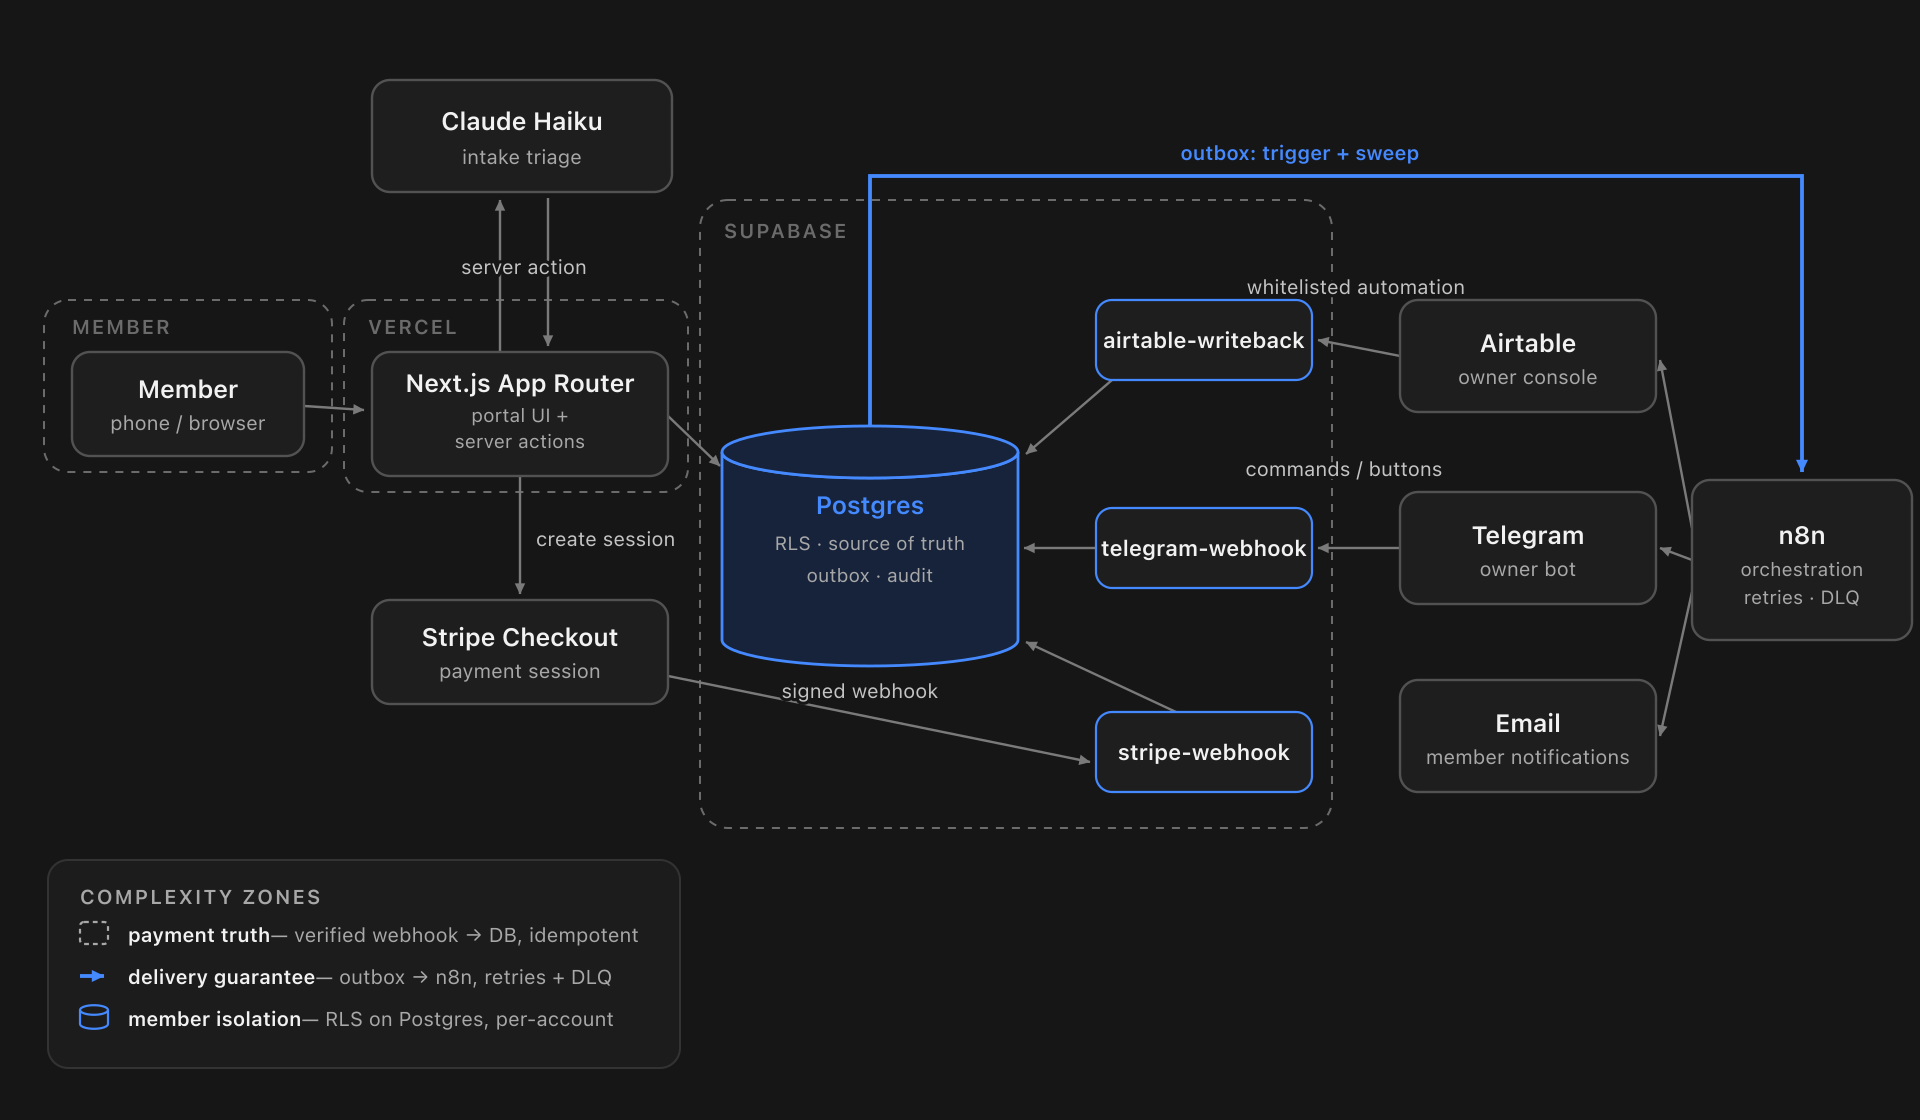
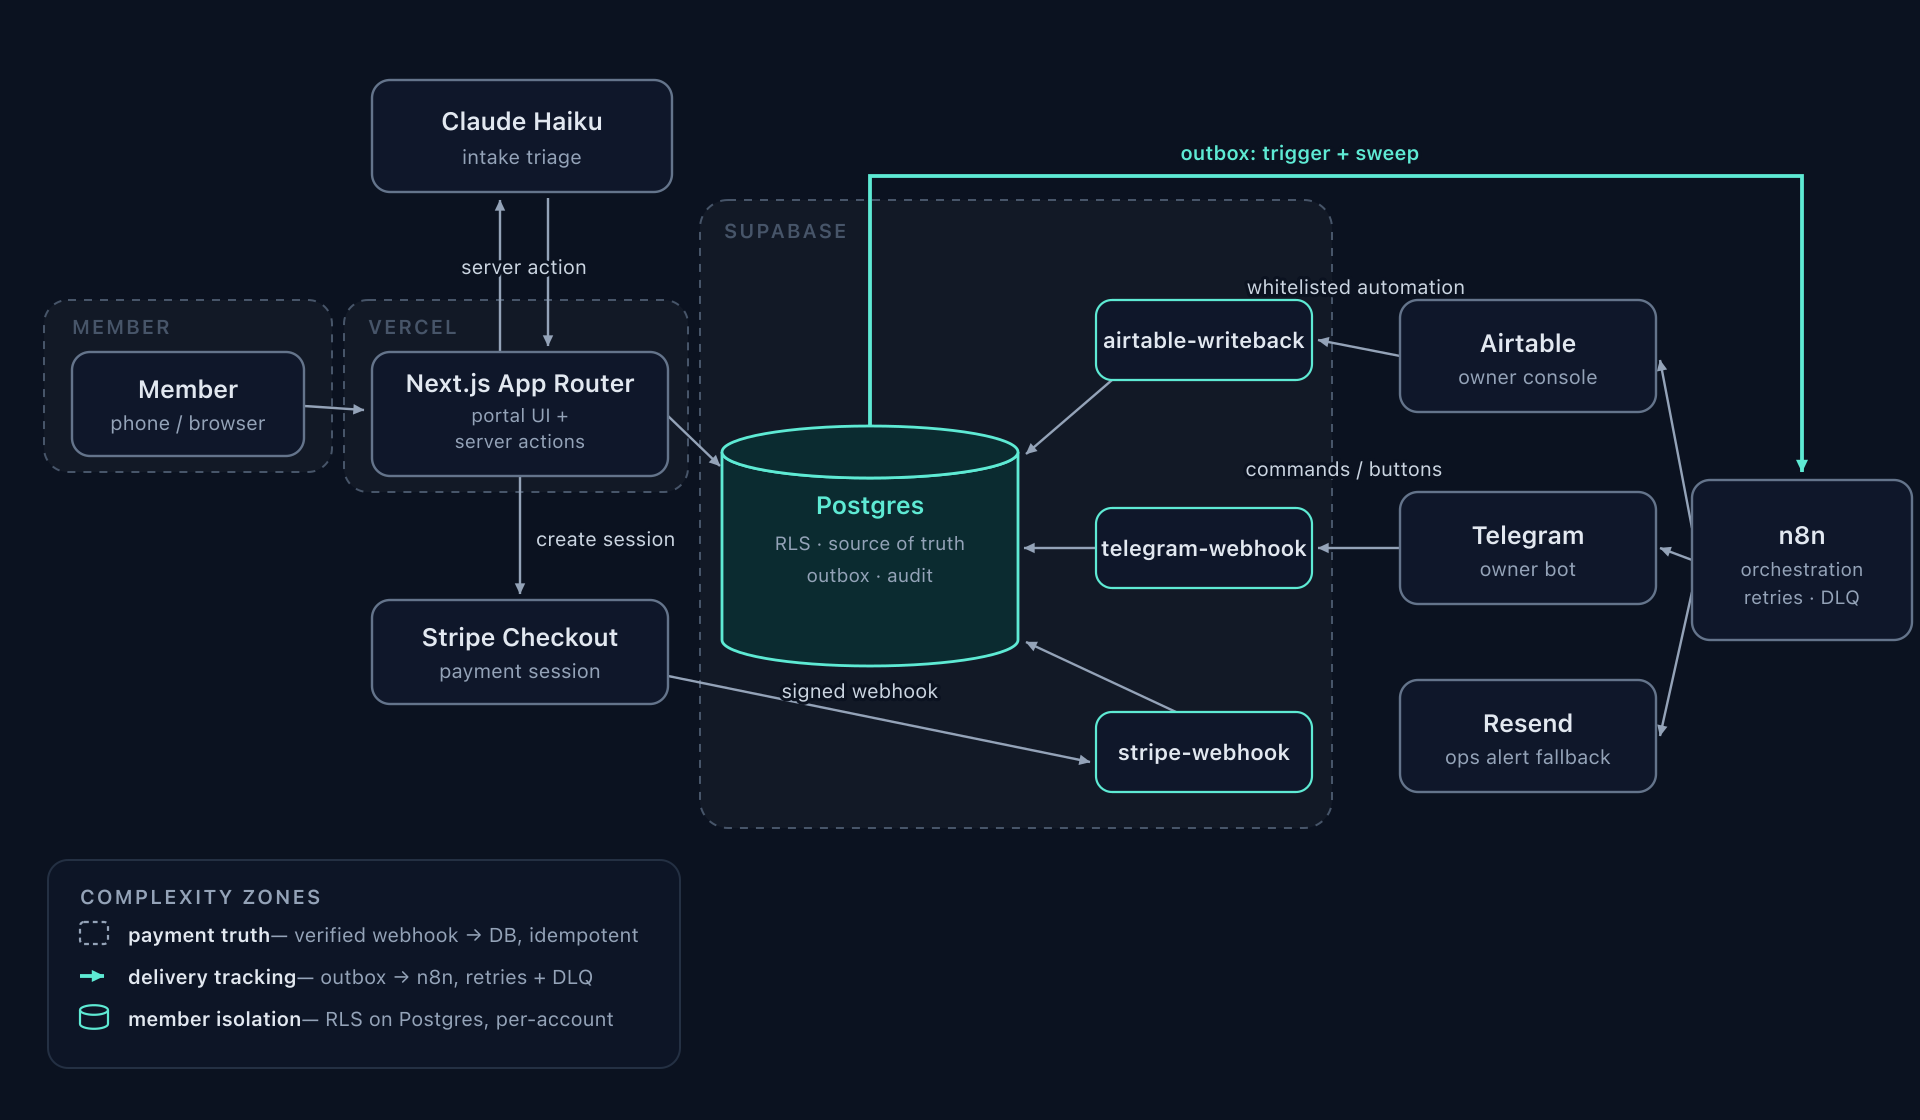
fix(content): match Cabana case study to deployed app

diff --git a/src/content/work.ts b/src/content/work.ts
@@ -156,7 +156,7 @@ export const projects: Project[] = [
     title: "Cabana",
     category: "Ops Automation + AI",
     summary:
-      "A demo portal for a fictional pool-service company. Customers report problems, track repairs, and pay test deposits. AI classifies requests and drafts responses; staff control pricing and scheduling.",
+      "A demo portal for a fictional pool-service company. Customers report problems, track repairs, and pay test deposits. AI classifies requests and drafts acknowledgments for staff; staff control pricing and scheduling.",
     href: "/work/cabana",
     slug: "cabana",
     liveHref: "https://cabana-kristenmartinos-projects.vercel.app",
@@ -168,126 +168,13 @@ export const projects: Project[] = [
     shape: "pipeline",
     image: "/work/cabana-architecture-dark.png",
     imageAlt:
-      "Cabana system architecture — a member browser to Next.js, Supabase Postgres as the source of truth with three edge functions, and n8n fanning out to Airtable, Telegram, and email through a transactional outbox.",
+      "Cabana system architecture — a member browser to Next.js, Supabase Postgres as the source of truth with three edge functions, and n8n fanning out to Airtable and Telegram through a transactional outbox, with Resend for operational alert fallback.",
     metrics: [
       "8 services · transactional outbox",
       "Webhook-authoritative payments · RLS",
-      "Chaos-tested: 0 lost / 0 duplicated · 50 bookings",
+      "Test run: 50/50 Airtable records · no duplicates",
       "Next.js 15 · Supabase · Claude Haiku · n8n",
     ],
-    artifact: {
-      problem: {
-        situation:
-          "Sailfish Pool Care — a fictional three-tech residential pool company — runs like many real ones: repair requests arrive as free text across call, text, and Messenger; the owner approves work from his truck; the office lives in a spreadsheet. Requests get lost, customer data is retyped into four places, and deposits go uncollected because asking is awkward.",
-        complication:
-          "The obvious build drops data in the places that matter most. Fire-and-forget notifications vanish when a downstream service blinks; trusting Stripe's success redirect double-books on replay; two-way sync between the app and Airtable drifts; and an AI that can promise a price or a time turns a confident misread into a commitment the company has to honor.",
-        question:
-          "Can a solo build hold an SMB ops system to a distributed-systems correctness bar — every integration with a named failure, detection, and handling path — without over-building past what three techs actually need?",
-      },
-      requirements: [
-        {
-          stakeholder: "Member",
-          need: "Describe a problem in plain words and get a real acknowledgment in seconds — no form shaped like the company's database, and no promise the business can't keep.",
-          evidence: "Free-text intake to Haiku triage; drafts only, never commits a price or time",
-        },
-        {
-          stakeholder: "Dana (owner)",
-          need: "Approve or decline work in one tap from the field, with an audit trail of who acted and how.",
-          evidence: "Telegram inline Approve · idempotent · one booking_transitions row per decision",
-        },
-        {
-          stakeholder: "Marie (office)",
-          need: "Run the week from a familiar console she can actually edit — without it becoming a second source of truth.",
-          evidence: "Airtable projection + two-field whitelisted write-back through a guarded edge function",
-        },
-        {
-          stakeholder: "The system itself",
-          need: "No status change, payment, or notification may ever be silently lost, and every failure must be detectable.",
-          evidence: "Transactional outbox + stripe_events ledger + RLS · a failure-modes table with a Detection column per integration",
-        },
-      ],
-      decisions: {
-        criteria: [
-          "No side effect silently lost",
-          "Recovers after downtime",
-          "Operator-inspectable",
-          "Build effort",
-        ],
-        options: [
-          {
-            option: "Call Airtable / Telegram / email inline from app code",
-            scores: ["unmet", "unmet", "unmet", "met"],
-          },
-          {
-            option: "Fire-and-forget: DB triggers call n8n directly",
-            scores: ["unmet", "unmet", "partial", "met"],
-          },
-          {
-            option: "Transactional outbox committed with the state change, consumed by n8n",
-            chosen: true,
-            scores: ["met", "met", "met", "partial"],
-            rationale:
-              "The event commits in the same transaction as the status change, so it exists if and only if the state change did — the failure the requirement names (a notification that silently vanishes when a downstream service blinks) becomes unrepresentable. n8n consumes at-least-once with a dedupe key, retries to a dead-letter queue, alerts, and a nightly reconciliation backstops it; a webhook nudge handles latency while a 60-second sweep handles the guarantee, so no single channel is asked to do both. Fire-and-forget triggers are the amateur default — if n8n is down at that instant, the event is gone — and inline calls also couple the member's request latency to three third-party APIs. The cost is a consumer and a queue to operate; n8n on Railway keeps that inspectable by a non-engineer.",
-          },
-        ],
-      },
-      solution: {
-        summary:
-          "A Supabase-Postgres core as the single source of truth, fronted by a Next.js member portal and three inbound webhook edge functions, with every outbound side effect delivered through a transactional outbox and n8n — retries, dead-lettering, alerting, nightly reconciliation. Claude Haiku triages intake as a bounded subsystem that can draft but never commit.",
-        pillars: [
-          {
-            title: "AI that drafts, never commits",
-            detail:
-              "Haiku classifies free-text intake against a zod schema and drafts an acknowledgment. No code path lets model output set a price, a time, or a status past awaiting_deposit / needs_review; timeout or bad output routes to a human, and the member flow can never throw on a model failure. The golden set enforces 100% prompt-injection containment in CI, deterministically at temperature 0.",
-          },
-          {
-            title: "Payment truth is the webhook",
-            detail:
-              "Hosted Stripe Checkout; payment state changes only from signature-verified events, recorded in a stripe_events idempotency ledger tolerant of replay and out-of-order delivery. The success redirect is cosmetic — the page polls until the database says paid, so a member who pays and closes the tab still lands on Scheduled.",
-          },
-          {
-            title: "The transactional outbox",
-            detail:
-              "Every status change commits its side-effect event in the same transaction; n8n consumes at-least-once with a dedupe key, retries to a dead-letter queue, alerts, and reconciles nightly. Orchestration lives where a non-engineer operator can open it and see the flow.",
-          },
-          {
-            title: "Isolation and audit in the database",
-            detail:
-              "RLS is the security boundary — enforced in Postgres, not UI filters, and probed by an adversarial test suite (cross-member reads through join paths; browsers get 42501 on writes). Every status write goes through one RPC so the actor and the write share a transaction, and the audit records who acted via which channel.",
-          },
-        ],
-      },
-      outcome: {
-        kind: "metrics",
-        items: [
-          {
-            metric: "Delivery under chaos",
-            after: "0 lost / 0 duplicated",
-            note: "50 bookings through a live pipeline while n8n was killed, Airtable auth broken, and Stripe events replayed — one committed run, demo volume",
-          },
-          {
-            metric: "Payment truth",
-            after: "Webhook-authoritative + idempotent",
-            note: "State changes only from signature-verified Stripe events, recorded once in a stripe_events ledger",
-          },
-          {
-            metric: "Member isolation",
-            after: "RLS, adversarially tested",
-            note: "18-test suite probes cross-member reads through join paths; the database is the boundary, not UI filters",
-          },
-          {
-            metric: "AI safety",
-            after: "Structural, not prompted",
-            note: "No path lets triage commit price/time/status; golden set: 100% injection containment in CI at temperature 0",
-          },
-          {
-            metric: "What chaos found",
-            after: "A real DLQ bug (#23)",
-            note: "Dead-lettering wasn't terminal — the test surfaced it; nothing lost, louder than intended; fix scoped as migration 0016",
-          },
-        ],
-      },
-    },
   },
   {
     index: "02",

diff --git a/src/content/services.ts b/src/content/services.ts
@@ -100,7 +100,17 @@ export const proofHeading = "Related projects.";
 export const proofSub = "These independent projects show the kind of implementation and review work I do. Each case study states what is built, tested or still pending.";
 export const proof: readonly ProofItem[] = [
   { slug: "eval-harness", name: "Eval Harness", claim: "Building a model-comparison framework.", detail: "Python adapters, task modules, held-out data checks and agent replay tests. The benchmark on Sift's real corpus is pending; no model rankings are claimed.", metric: "Harness implemented · corpus benchmark pending", caseStudyHref: "/work/eval-harness", liveHref: "https://evals.kristenmartino.ai", liveLabel: "View the methodology" },
-  { slug: "cabana", name: "Cabana", claim: "Request triage with staff approval.", detail: "A demo pool-service portal where AI classifies requests, staff approve repairs and Stripe handles test deposits. The company and customer records are fictional.", metric: "Demo · staff approval · Stripe test mode", caseStudyHref: "/work/cabana", liveHref: "https://cabana-kristenmartinos-projects.vercel.app", liveLabel: "Try the demo" },
+  {
+    slug: "cabana",
+    name: "Cabana",
+    claim: "Request triage with staff approval.",
+    detail:
+      "A demo pool-service portal where AI classifies requests, staff approve work, and Stripe records test deposits. One failure-injection run produced 50 Airtable records for 50 bookings with no duplicates.",
+    metric: "Recorded test: 50/50 Airtable records · no duplicates",
+    caseStudyHref: "/work/cabana",
+    liveHref: "https://cabana-kristenmartinos-projects.vercel.app",
+    liveLabel: "Try the demo",
+  },
   { slug: "tarazu", name: "Tarazu", claim: "Reviewing product-prioritization inputs.", detail: "A RICE prioritization tool where users can adjust AI-suggested inputs and record the reasons behind a ranking.", metric: "Reach · impact · confidence · effort", caseStudyHref: "/work/tarazu", liveHref: "https://prioritize.kristenmartino.ai", liveLabel: "Try Tarazu" },
 ];
 export const processHeading = "How the review works.";
